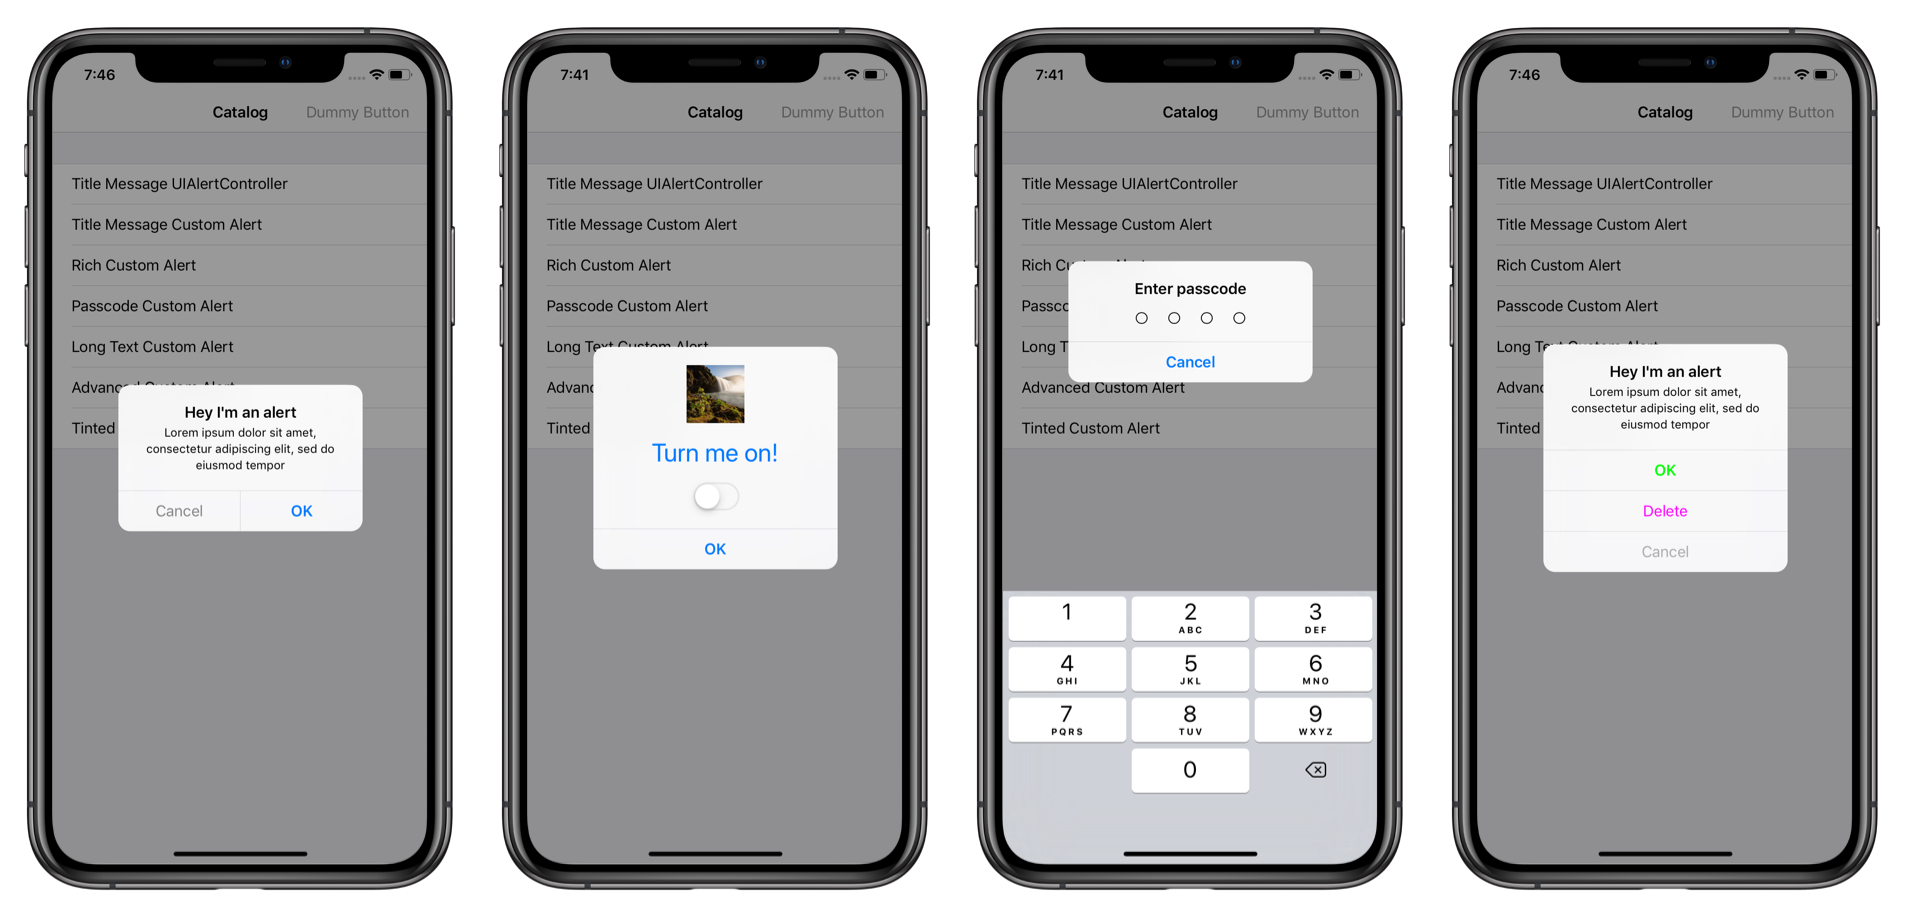
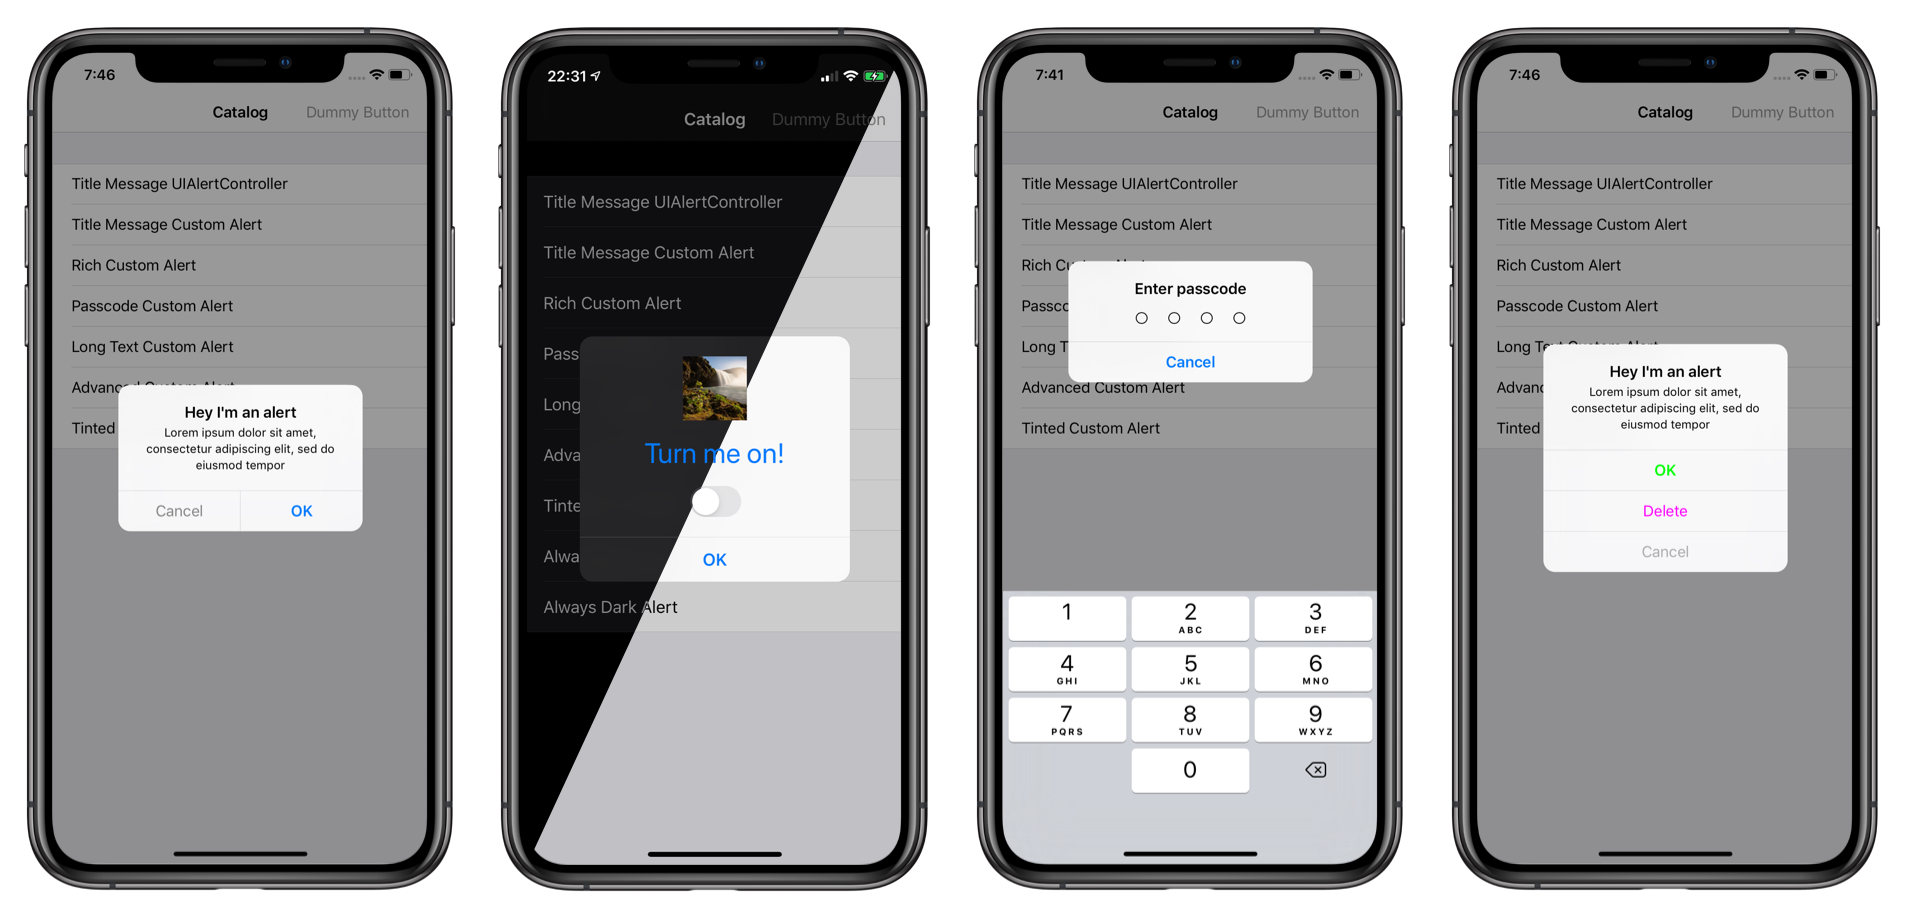
Update README and podspec

Changed region(s): [[0.2478, 0.0305, 0.4955, 0.976]]

diff --git a/README.md b/README.md
@@ -28,6 +28,7 @@ This alert successfully used in production in our app [Dash Wallet](https://apps
 - Simple built-in transition from one content controller to another within a single `DWAlertController` (see Advanced alert in the Example app)
 - Dynamic Type
 - Accessibility
+- Dark Mode and dark appearance for iOS 12 or lower
 
 ## Usage
 
@@ -75,7 +76,6 @@ The `backgroundColor` of the content controller's view should be transparent (`U
 
 - Only `UIAlertController.Style.alert` is supported (since there are a lot of decent implementations of actionSheet-styled controls)
 - Updating the height of the currently displaying view controller is not supported. However, when displaying a new controller with `performTransition(toContentController:animated:)` method, it may have a different height.
-- iOS 13 Dark Mode is not currently supported (WIP).
 
 ## Requirements
 
